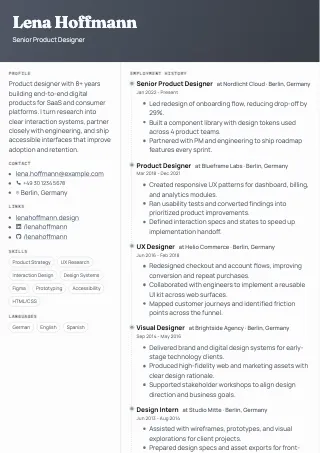
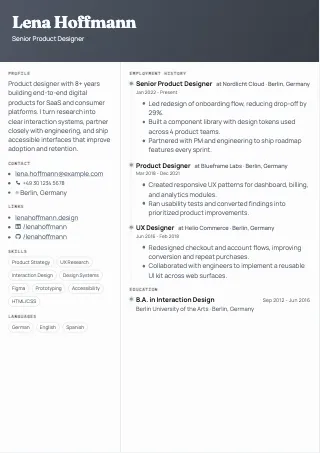
Make the sample resume fit one page in every template
Closes #77

diff --git a/js/sample-state.js b/js/sample-state.js
@@ -42,7 +42,7 @@ export function createSampleStateBuilders({ getState, sanitizeResumeState }) {
           end: "Dec 2021",
           isCollapsed: true,
           bullets:
-            "Created responsive UX patterns for dashboard, billing, and analytics modules.\nRan usability tests and converted findings into prioritized product improvements.\nDefined interaction specs and states to speed up implementation handoff."
+            "Created responsive UX patterns for dashboard, billing, and analytics modules.\nRan usability tests and converted findings into prioritized product improvements."
         },
         {
           role: "UX Designer",
@@ -52,27 +52,7 @@ export function createSampleStateBuilders({ getState, sanitizeResumeState }) {
           end: "Feb 2018",
           isCollapsed: true,
           bullets:
-            "Redesigned checkout and account flows, improving conversion and repeat purchases.\nCollaborated with engineers to implement a reusable UI kit across web surfaces.\nMapped customer journeys and identified friction points across the funnel."
-        },
-        {
-          role: "Visual Designer",
-          company: "Brightside Agency",
-          location: "Berlin, Germany",
-          start: "Sep 2014",
-          end: "May 2016",
-          isCollapsed: true,
-          bullets:
-            "Delivered brand and digital design systems for early-stage technology clients.\nProduced high-fidelity web and marketing assets with clear design rationale.\nSupported stakeholder workshops to align design direction and business goals."
-        },
-        {
-          role: "Design Intern",
-          company: "Studio Mitte",
-          location: "Berlin, Germany",
-          start: "Jun 2013",
-          end: "Aug 2014",
-          isCollapsed: true,
-          bullets:
-            "Assisted with wireframes, prototypes, and visual explorations for client projects.\nPrepared design specs and asset exports for front-end implementation.\nContributed to user interviews and synthesized notes into actionable insights."
+            "Redesigned checkout and account flows, improving conversion and repeat purchases.\nCollaborated with engineers to implement a reusable UI kit across web surfaces."
         }
       ],
       education: [
